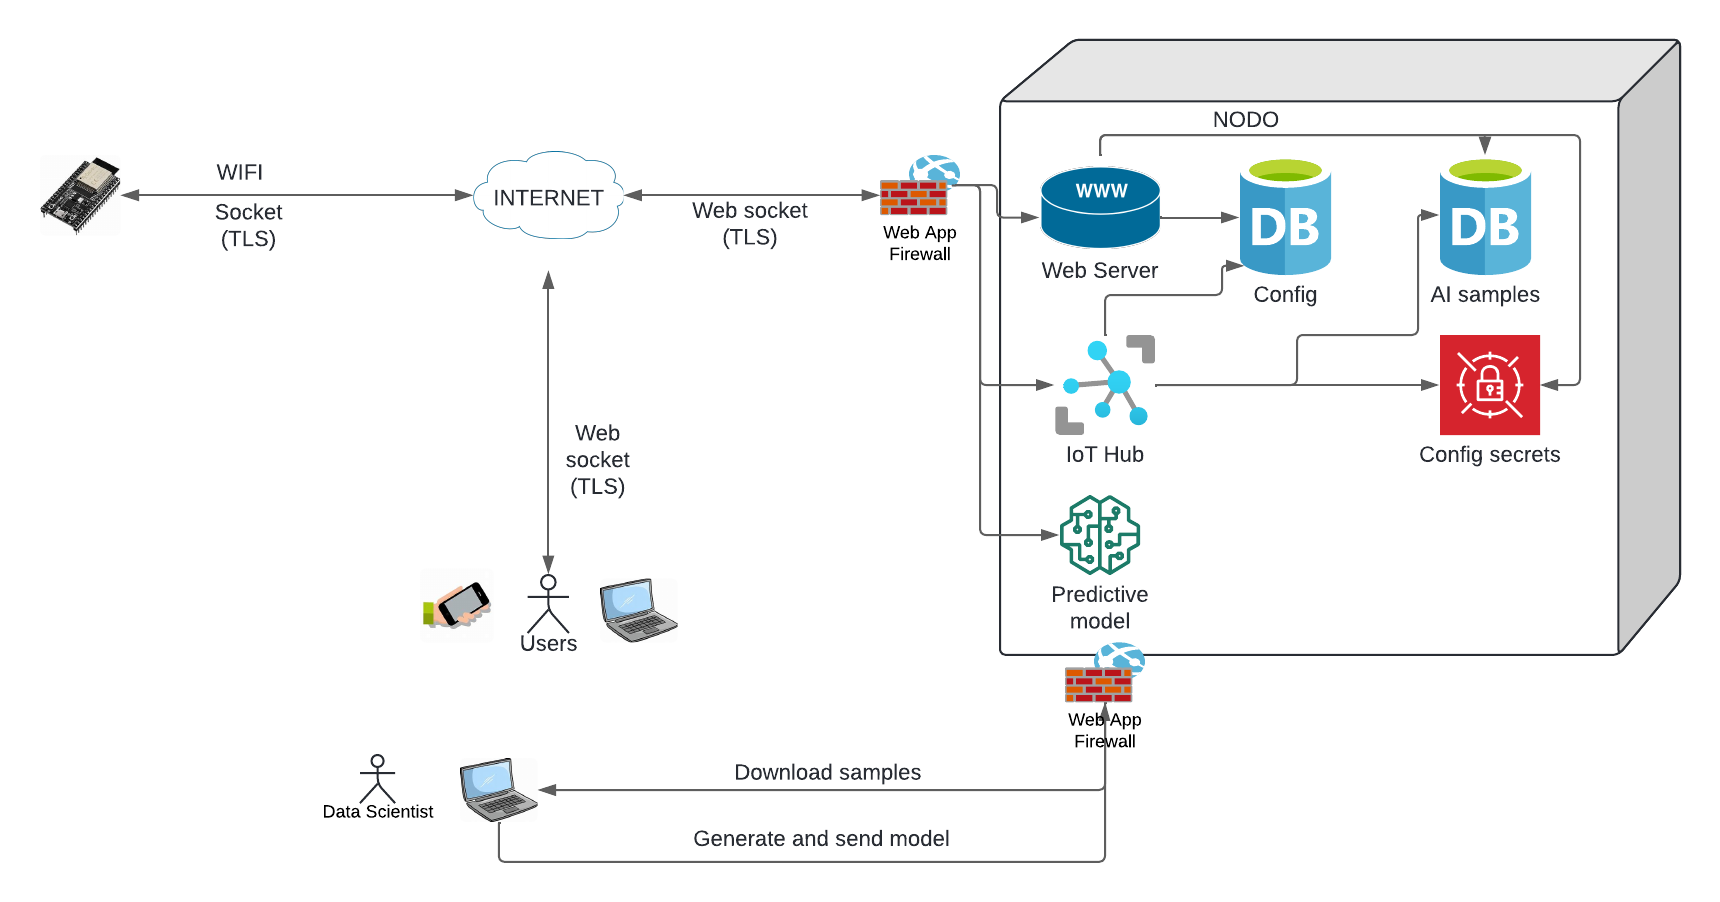
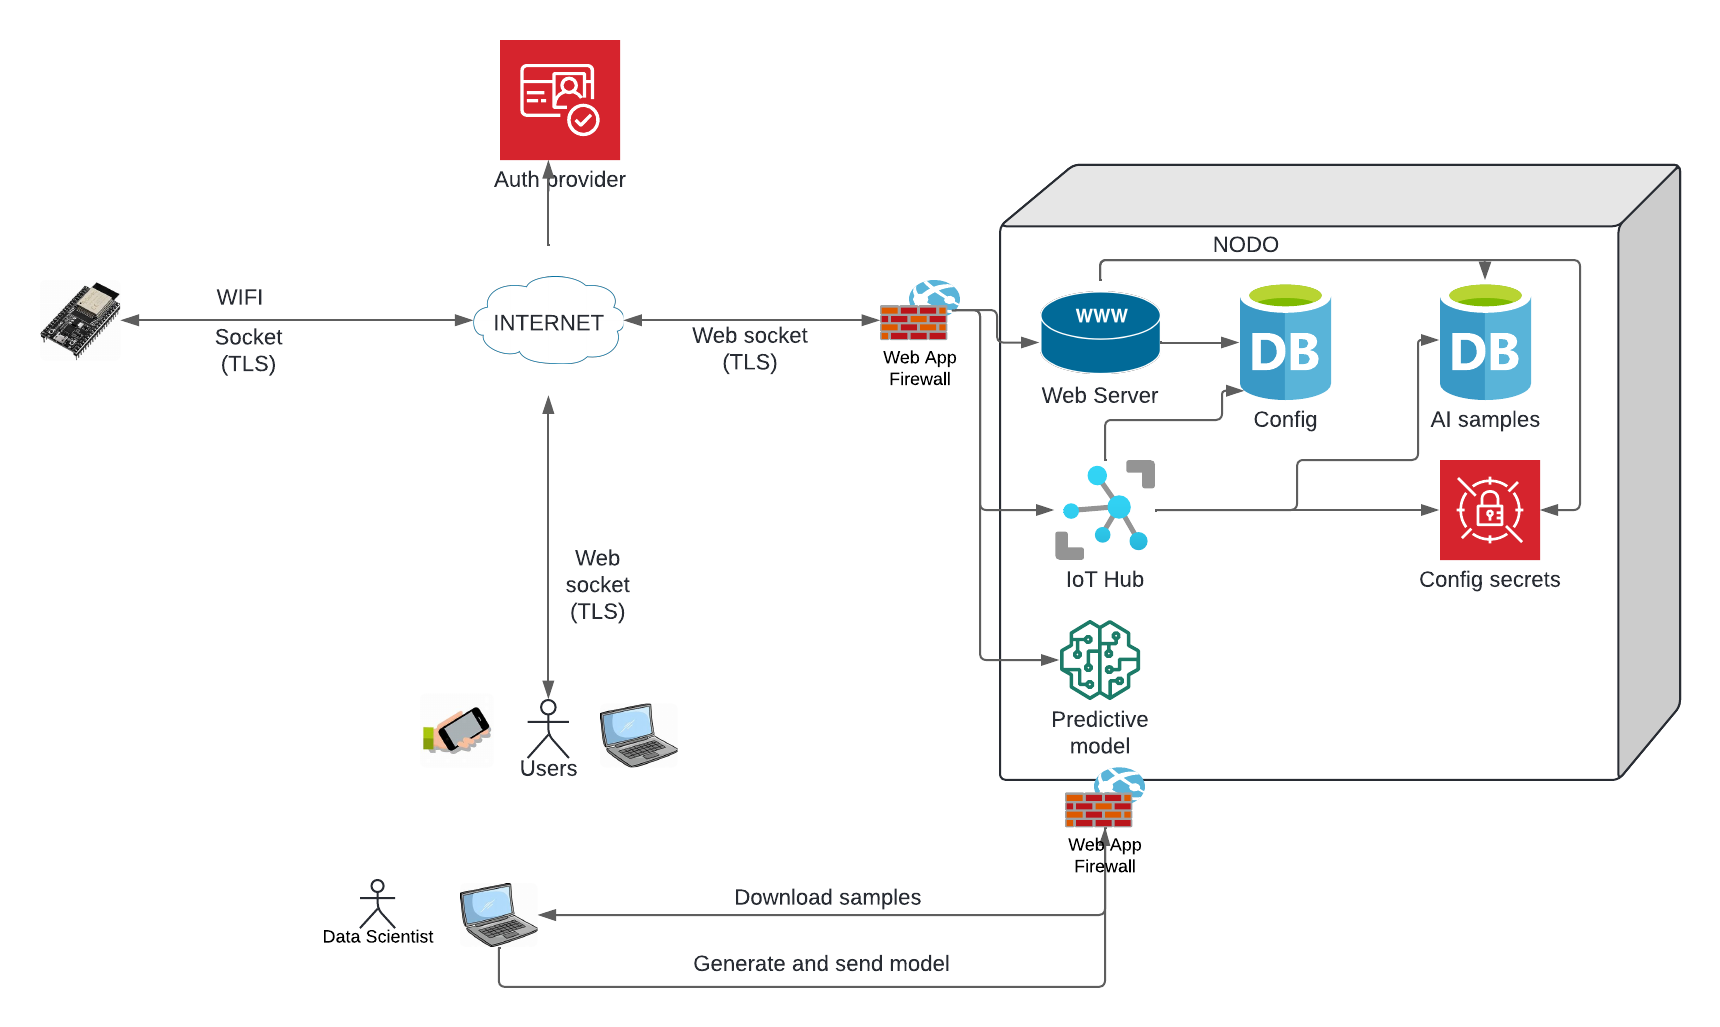
Architecture doc

diff --git a/doc/architecture.md b/doc/architecture.md
@@ -2,3 +2,29 @@
 
 ![architecture](architecture.png)
 
+The system is composed of the following main components:
+
+- [Board controller](../micro/swpc/swpc.ino): It is responsible for the collection of metrics through the sensors and their subsequent sending. The controller is governed by events managed by the server through the ioT Hub component. The transmission of information is sent knowing the following parameters, sent by the server and configured by the user.
+
+  - Wakeup: The micro-controller in charge of measuring the swimming pool values can consume quite a lot of battery power. To save the battery, it is convenient to configure the hours of emission of the metrics by the micro-controller. Wakeup configures how many minutes the micro-controller wakes up and checks between which hours it will emit the metrics. Once the micro-controller has woken up, the controller is managed through the events governed by the server.
+  - IniSendTime and EndSendTime: Configures between which hours the values will be emitted.
+  - Buffer: Configures how many seconds the micro stores the metrics before sending them. 
+
+  The communication between the micro and the hub is done through websocket with low latency, secure (security token and TLS) and bidirectional communication. The system is able to recover even with  micro-cuts and restarts of the micro-controller itself, very typical in this type of devices and topologies. 
+
+- [ioT Hub](../pkg/iot/hub.go): The hub primarily manages real-time transmission between the device and the clients and vice versa. The hub can cover a single device and hundreds of clients with very few resources. This component can be used independently, allowing not only the transmission of metrics for a pool, also for any other environment. The hub is able to transfer metrics using low latency websocket, using events. The system allows reporting the status of the device to each of the subscribers (clients), as well as any errors that arise in the system. As mentioned above, the transmission can be done by configuring a time window.
+
+- [Web Server](../internal/web): The web server is composed of several main sub-components:
+  - [Authentication](../internal/web/auth.go): Controls user authentication using oauth2 through authentication providers. The default provider used by default is [AWS Cognito](https://aws.amazon.com/es/cognito/)
+  - API: We have different APIs for managing [user configuration](../internal/web/config.go), [samples for prediction](../internal/web/sample.go) and [IA preditions](../internal/web/prediction.go).
+
+- [Configuration module](../internal/config/config.go): Allows the system to be configured via a *SW_POOL_CONTROLLER_CONFIG* json environment variable. Secrets located in the configuration can be secured through provider services via the [`type Secret interface`](../internal/config/config/config.go) interface. If a secret is needed in the configuration, use an expression that satisfies: `@@@[a-zA-Z0-9_]+`. The default provider is [AWS Secrets Manager](https://aws.amazon.com/es/secrets-manager/). It is also possible to configure the [transmission parameters](../ui/src/config/config.tsx) by the user, as we saw earlier.
+
+- [AI Preditions](../ai/): We have different metrics that are obtained through the sensors. These metrics are: Temperature, ORP (Oxidation Reduction Potential) and PH. Other metrics such as chlorine and water quality are calculated by two predictive models (artificial intelligence), namely a regression model and a decision tree model. The data scientist is in charge of downloading the samples that the user has been adding based on the information from the sensors, and using a series of python scripts, generates the model and uploads it to the system. This model is in responsible for making the on-demand predictions requested by the user.
+
+- [User interface](../ui/src/): This is made up of several main modules:
+  - [Dashboard](../ui/src/dashboard/): It displays the metrics, both those obtained with the sensors and those obtained by prediction.
+  - [Configuration](../ui/src/config/): Allows you to configure the transmission parameters.
+  - [Net](../ui/src/net/): Manages all communications, both REST and websocket.
+  - [Auth](../ui/src/auth/): Manages authentication.
+  - [AI](../ui/src/ai/): This is the module that allows samples to be added for model generation. It can be deactivated when the samples are completed.
